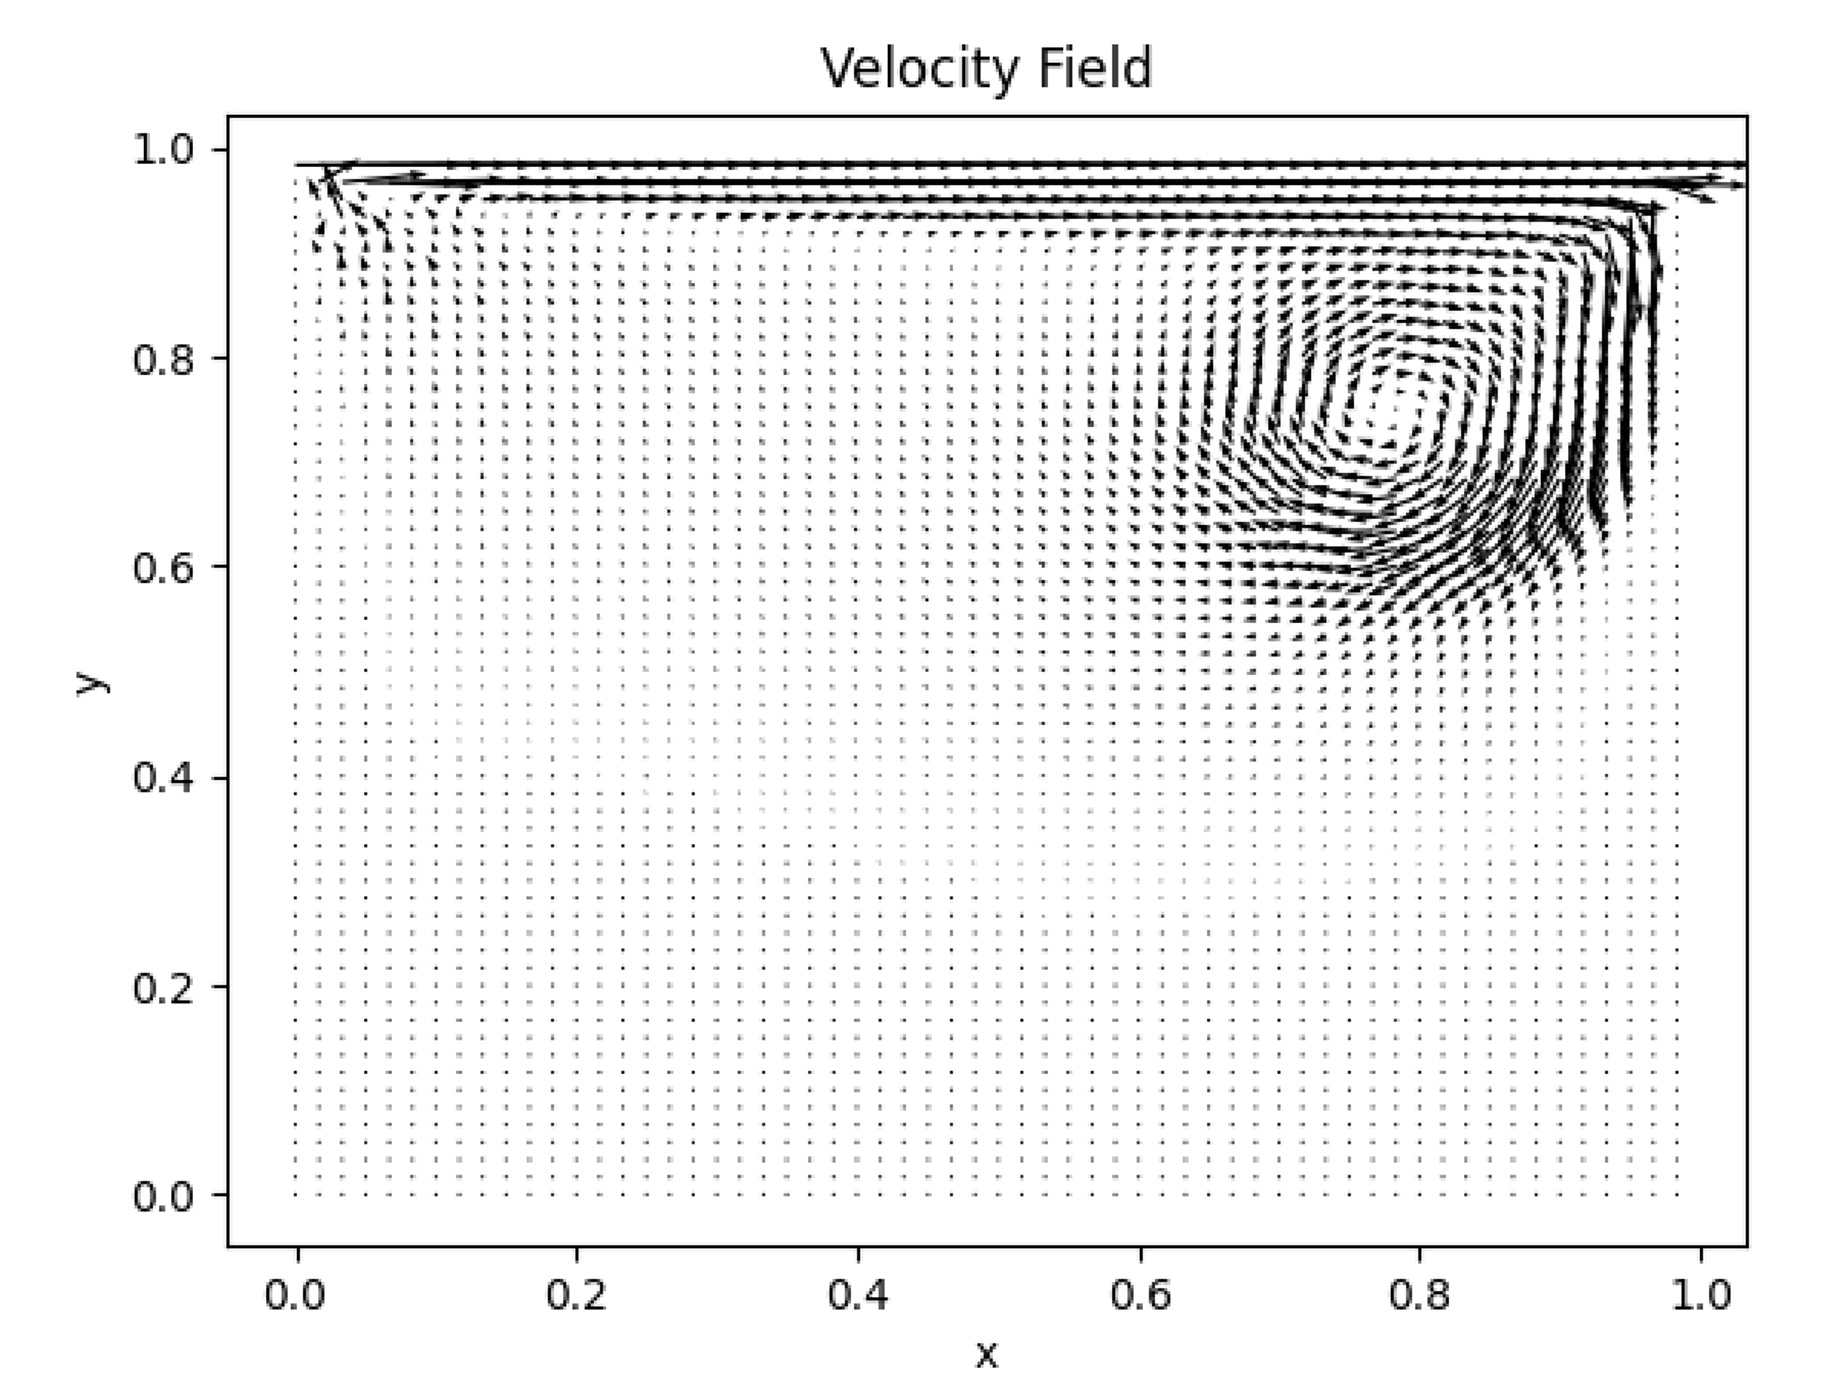
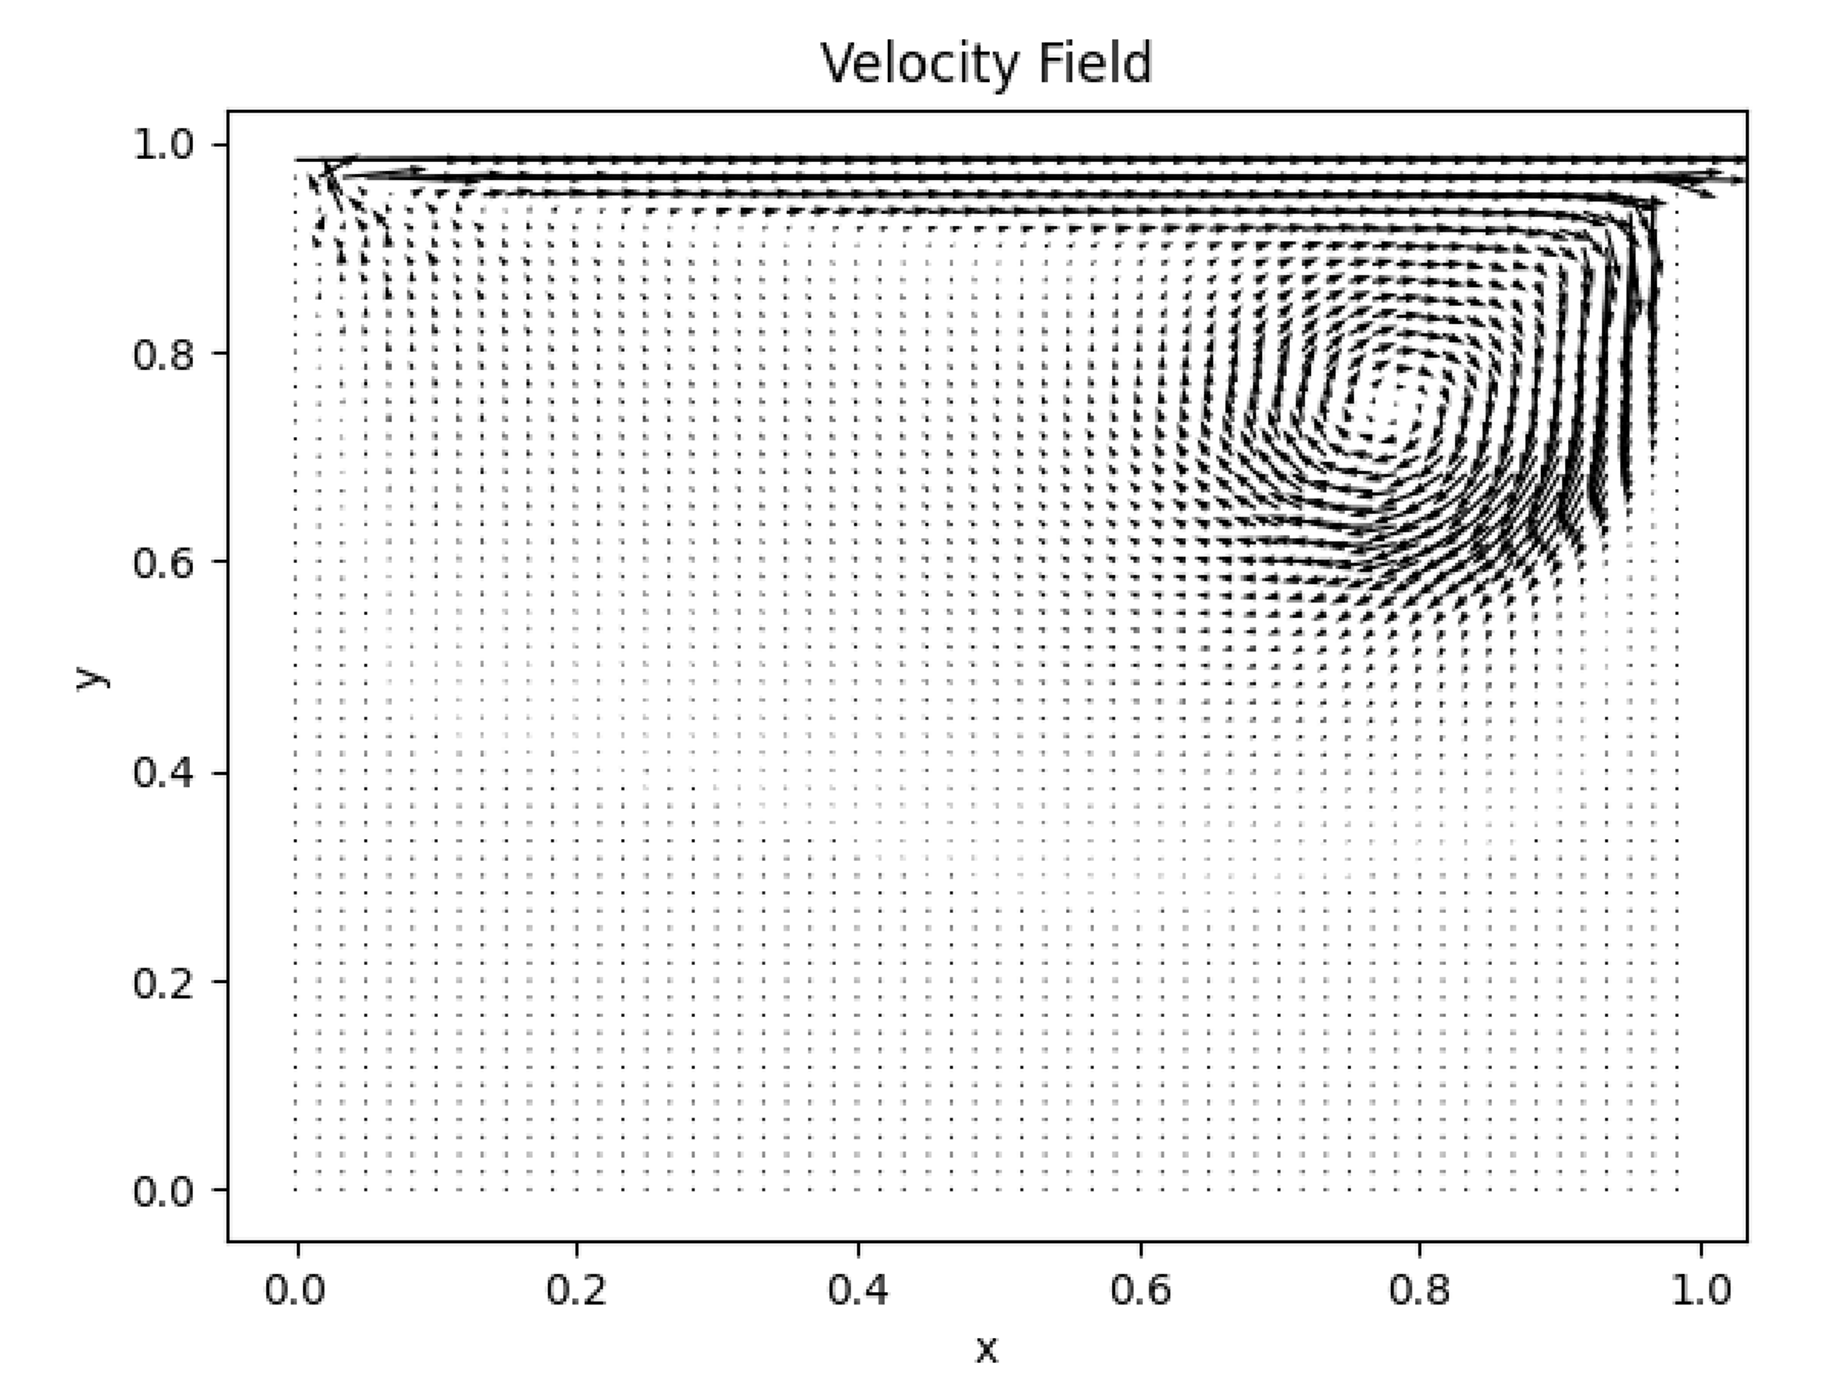
Update results folder
Rescaled results' images and updated proportion in README.md

diff --git a/README.md b/README.md
@@ -18,9 +18,9 @@ These are the results obtained using the Cython code for 60X60 Nodes at Reynolds
   <img src="https://github.com/santosh-gs/simulation-of-lid-driven-cavity-with-lbm-code/blob/main/results/Re%203000%20and%20t%2060000.png?raw=true" width="50%" />
 </div>
 
-<div style="display: flex; justify-content: space-between;">
+<div style="display: flex; justify-content: center;">
 
-  <img src="https://github.com/santosh-gs/simulation-of-lid-driven-cavity-with-lbm-code/blob/main/results/Re%203000%20and%20t%20100_000.png?raw=true" width="75%" />
+  <img src="https://github.com/santosh-gs/simulation-of-lid-driven-cavity-with-lbm-code/blob/main/results/Re%203000%20and%20t%20100_000.png?raw=true" width="50%" />
 
 </div>
 
